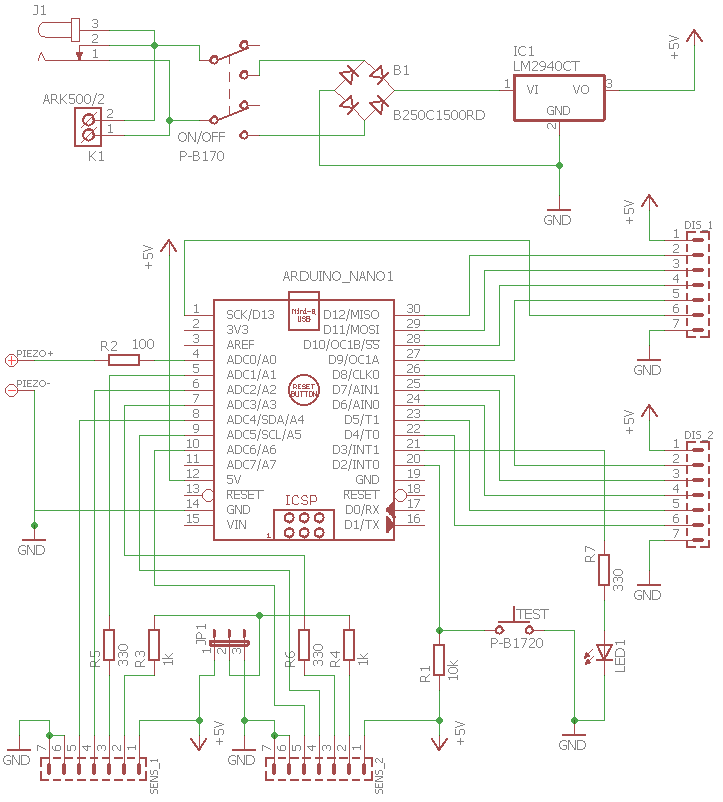
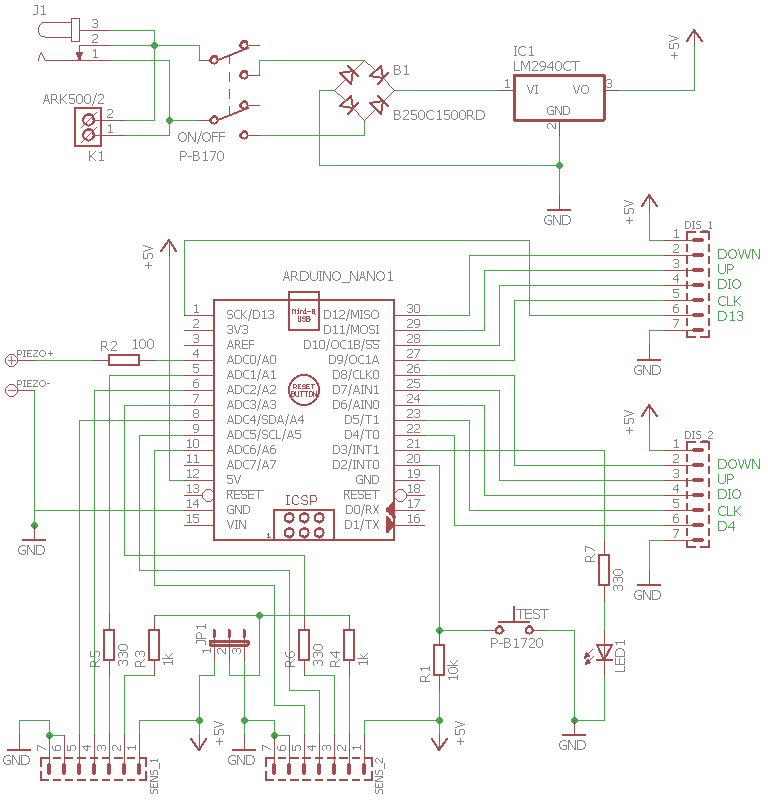
Added pin description and started with PlatformIO

diff --git a/src/main.cpp b/src/main.cpp
@@ -5,13 +5,80 @@
 #include "Arduino.h"
 #include "TM1637Display.h"
 
+#define TEST_BTN 2
+#define TEST_LED 3
+
+#define DISP1_CLK 9
+#define DISP1_DIO 10
+#define DISP2_CLK 5
+#define DISP2_DIO 6
+
+const uint8_t AHOJ[] = {
+  SEG_A | SEG_B | SEG_C | SEG_E | SEG_F | SEG_G,   // A
+  SEG_B | SEG_C | SEG_E | SEG_F | SEG_G,           // H
+  SEG_A | SEG_B | SEG_C | SEG_D | SEG_E | SEG_F,   // O
+  SEG_B | SEG_C | SEG_D | SEG_E                    // J
+  };
+
+TM1637Display disp1(DISP1_CLK, DISP1_DIO);
+TM1637Display disp2(DISP2_CLK, DISP2_DIO);
+
 void setup() {
-  pinMode(A0, OUTPUT); // Set buzzer - pin 9 as an output
+  pinMode(A0, OUTPUT);          // Set buzzer - pin 9 as an output
+  pinMode(TEST_LED, OUTPUT);
+  pinMode(TEST_BTN, INPUT);
+  disp1.setBrightness(10);
+  disp2.setBrightness(10);
+
+  // welcome message
+  disp1.setSegments(AHOJ);
+  disp2.setSegments(AHOJ);
+
+  tone(A0, 1000); // Send 1KHz sound signal...
+  delay(1000);        // ...for 1 sec
+  noTone(A0);
+  delay(1000);
+
+  disp1.showNumberDecEx(0, 2, true);
+  delay(1000);
 }
 
 void loop() {
-  tone(A0, 1000); // Send 1KHz sound signal...
-  delay(1000);        // ...for 1 sec
-  noTone(A0);     // Stop sound...
-  delay(1000);        // ...for 1sec
+
+  if (digitalRead(TEST_BTN) == LOW) {
+    // move this to standalone file (ino or cpp)
+    tone(A0, 400);
+    delay(200);
+    noTone(A0);
+
+    digitalWrite(TEST_LED, HIGH);
+    delay(200);
+    digitalWrite(TEST_LED, LOW);
+    delay(200);
+    digitalWrite(TEST_LED, HIGH);
+    delay(200);
+    digitalWrite(TEST_LED, LOW);
+
+    const int TEST_DELAY = 800;
+    int k;
+    uint8_t data[] = { 0xff, 0xff, 0xff, 0xff };
+    data[0] = 0b01001001;
+    data[1] = disp1.encodeDigit(1);
+    data[2] = disp1.encodeDigit(2);
+    data[3] = disp1.encodeDigit(3);
+
+    for(k = 3; k >= 0; k--) {
+    	disp1.setSegments(data, 1, k);
+    	delay(TEST_DELAY);
+    }
+
+    disp1.showNumberDecEx(0, 2, true);
+
+    tone(A0, 2000);
+    delay(100);
+    tone(A0, 400);
+    delay(100);
+    noTone(A0);
+
+  }
 }
